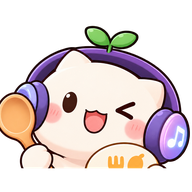
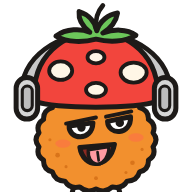
v2.18: 새 캐릭터 디자인 (토마토·버섯·돈가스 셰프), 아이콘·공유 이미지 교체
Claude-Session: https://claude.ai/code/session_01LKFDqjQofNnMuDbJfY7DCf

diff --git a/index.html b/index.html
@@ -12,17 +12,17 @@
 <meta property="og:title" content="비트밥스">
 <meta property="og:description" content="좋아하는 노래 분위기로 오늘의 메뉴와 주변 음식점을 추천해요.">
 <meta property="og:url" content="https://4tpk7p297h-code.github.io/song-meal/">
-<meta property="og:image" content="https://4tpk7p297h-code.github.io/song-meal/og.png">
+<meta property="og:image" content="https://4tpk7p297h-code.github.io/song-meal/og.png?v=3">
 <meta property="og:image:width" content="1200">
 <meta property="og:image:height" content="630">
 <meta property="og:locale" content="ko_KR">
 <meta name="twitter:card" content="summary_large_image">
 <meta name="twitter:title" content="비트밥스">
 <meta name="twitter:description" content="좋아하는 노래 분위기로 오늘의 메뉴와 주변 음식점을 추천해요.">
-<meta name="twitter:image" content="https://4tpk7p297h-code.github.io/song-meal/og.png">
-<link rel="icon" type="image/png" sizes="32x32" href="icon-32.png?v=2">
-<link rel="icon" type="image/png" sizes="192x192" href="icon-192.png?v=2">
-<link rel="apple-touch-icon" href="apple-touch-icon.png?v=2">
+<meta name="twitter:image" content="https://4tpk7p297h-code.github.io/song-meal/og.png?v=3">
+<link rel="icon" type="image/png" sizes="32x32" href="icon-32.png?v=3">
+<link rel="icon" type="image/png" sizes="192x192" href="icon-192.png?v=3">
+<link rel="apple-touch-icon" href="apple-touch-icon.png?v=3">
 <link rel="manifest" href="manifest.webmanifest">
 <meta name="theme-color" content="#ff7a59">
 <meta name="mobile-web-app-capable" content="yes">
@@ -584,7 +584,7 @@
 <body>
 <main>
   <header class="top">
-    <h1><a href="#" id="home" title="처음 화면으로"><img class="logo" src="icon-192.png?v=2" alt="">비트밥스</a></h1>
+    <h1><a href="#" id="home" title="처음 화면으로"><img class="logo" src="icon-192.png?v=3" alt="">비트밥스</a></h1>
     <div class="topr">
     <nav class="cnav" aria-label="커뮤니티">
       <button type="button" id="nav-music"><span data-i18n="nav.music">🎵 음악찾기</span></button>
@@ -606,7 +606,7 @@
   <!-- 1. 개인정보 동의 -->
   <section id="consent" class="card">
     <div class="hello">
-      <img src="mascot.png" alt="비트밥스 캐릭터" class="mascot-hello">
+      <img src="mascot.png?v=3" alt="비트밥스 캐릭터" class="mascot-hello">
       <div class="bubble">안녕하세요! 좋아하는 노래를 알려 주시면<br>그 분위기에 딱 맞는 메뉴를 골라 드릴게요 🎶</div>
     </div>
     <h2>서비스 이용 동의</h2>
@@ -780,7 +780,7 @@
     </div>
     <p class="hint" id="corner-hint" style="margin:-4px 0 12px"></p>
     <div class="grid" id="corner-grid"></div>
-    <div class="rempty hidden" id="corner-empty"><img src="icon-192.png?v=2" alt=""><span></span></div>
+    <div class="rempty hidden" id="corner-empty"><img src="icon-192.png?v=3" alt=""><span></span></div>
     <p class="hint center" id="corner-msg"></p>
     <button type="button" class="ghost hidden" id="corner-more">더 보기</button>
   </section>
@@ -791,7 +791,7 @@
       <span aria-hidden="true">🌐</span><button type="button" data-lang="ko" lang="ko">한국어</button><button type="button" data-lang="en" lang="en">English</button><button type="button" data-lang="ja" lang="ja">日本語</button><button type="button" data-lang="zh" lang="zh">中文</button>
     </div>
     <div class="hello small">
-      <img src="mascot.png" alt="" class="mascot-hello">
+      <img src="mascot.png?v=3" alt="" class="mascot-hello">
       <div class="bubble" id="auth-bubble">가입하면 나만의 음식 × 노래 조합을 올리고 좋아요를 누를 수 있어요!</div>
     </div>
     <div id="kakao-box" class="hidden">
@@ -1021,7 +1021,7 @@
 
   <div id="loading" class="loading hidden" role="status" aria-live="polite">
     <div class="loadbox">
-      <img src="mascot.png" alt="">
+      <img src="mascot.png?v=3" alt="">
       <p>노래를 듣고 메뉴를 고르는 중이에요...</p>
       <small id="load-sub" class="hint" style="margin:0"></small>
     </div>
@@ -4160,8 +4160,13 @@ JJ Lin|林俊傑|임준걸`;
   });
 
   // ---------- 업데이트 내역 (관리자 전용) ----------
-  const APP_VERSION = "v2.17";
+  const APP_VERSION = "v2.18";
   const CHANGELOG = [
+    ["v2.18", "2026-11-17", "새 캐릭터 디자인", [
+      "사이트 캐릭터를 새로 그림: 토마토 꼭지 + 헤드폰 쓴 빨간 버섯 갓 + 바삭한 돈가스 몸, 한 손엔 뒤집개, 한 손은 락 손 모양",
+      "헤더 로고, 첫 화면 인사, 로딩 화면, 브라우저 탭·홈 화면 앱 아이콘을 새 캐릭터로 교체",
+      "링크 공유 미리보기 이미지를 새 캐릭터와 '비트밥스 · BeatBobs' 이름으로 다시 만들고, 메신저가 예전 이미지를 다시 쓰지 않도록 주소를 바꿈",
+    ]],
     ["v2.17", "2026-11-16", "사이트 전체를 고른 언어로 보기", [
       "회원가입 화면에서 고른 언어(English·日本語·中文)가 입력 화면, 추천 결과, 곡 분석, 메뉴 설명, 지도 카드, 순위·스토리, 후기 올리기, 내 정보, 관리패널까지 모두 적용",
       "추천 메뉴 이름·추천 이유·분위기 해설·안내 문구·오류 메시지도 그 언어로 표시 (추천 계산 자체는 그대로)",

diff --git a/sw.js b/sw.js
@@ -1,7 +1,7 @@
 // 비트밥스 서비스 워커: 홈 화면 앱으로 설치할 수 있게 하고, 인터넷이 끊겼을 때 마지막으로 본 화면을 보여 줌
 // 항상 새 파일을 먼저 받아서(네트워크 우선) 업데이트가 바로 반영됨. 다른 사이트(지도·음악·서버) 요청은 건드리지 않음
-const CACHE = "song-meal-v2.17";
-const SHELL = ["./", "index.html", "lang.js", "lang-data.js", "privacy.html", "icon-192.png", "icon-512.png", "apple-touch-icon.png", "mascot.png"];
+const CACHE = "song-meal-v2.18";
+const SHELL = ["./", "index.html", "lang.js", "lang-data.js", "privacy.html", "icon-192.png?v=3", "icon-512.png?v=3", "apple-touch-icon.png?v=3", "mascot.png?v=3"];
 self.addEventListener("install", (e) => { e.waitUntil(caches.open(CACHE).then((c) => c.addAll(SHELL)).catch(() => {})); self.skipWaiting(); });
 self.addEventListener("activate", (e) => {
   e.waitUntil(caches.keys().then((ks) => Promise.all(ks.filter((k) => k !== CACHE).map((k) => caches.delete(k)))).then(() => self.clients.claim()));

diff --git a/privacy.html b/privacy.html
@@ -4,9 +4,9 @@
 <meta charset="utf-8">
 <meta name="viewport" content="width=device-width, initial-scale=1">
 <title>개인정보 처리방침 · 비트밥스</title>
-<link rel="icon" type="image/png" sizes="32x32" href="icon-32.png?v=2">
-<link rel="icon" type="image/png" sizes="192x192" href="icon-192.png?v=2">
-<link rel="apple-touch-icon" href="apple-touch-icon.png?v=2">
+<link rel="icon" type="image/png" sizes="32x32" href="icon-32.png?v=3">
+<link rel="icon" type="image/png" sizes="192x192" href="icon-192.png?v=3">
+<link rel="apple-touch-icon" href="apple-touch-icon.png?v=3">
 <style>
   :root { --bg: #faf7f2; --card: #ffffff; --text: #1f1d1a; --muted: #6b665e; --line: #e6e0d6; --chip: #f1ece4; --accent: #d9480f; }
   @media (prefers-color-scheme: dark) {
